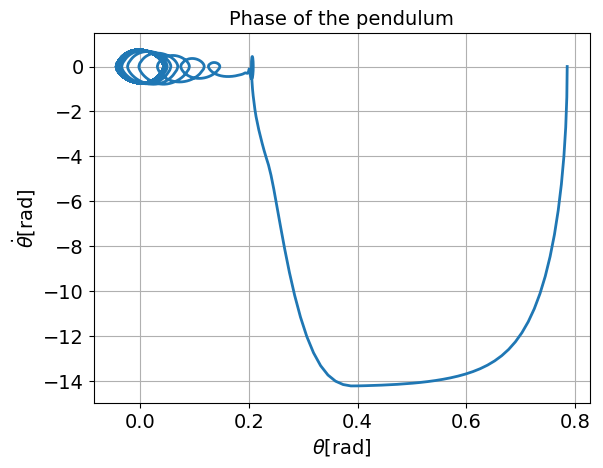
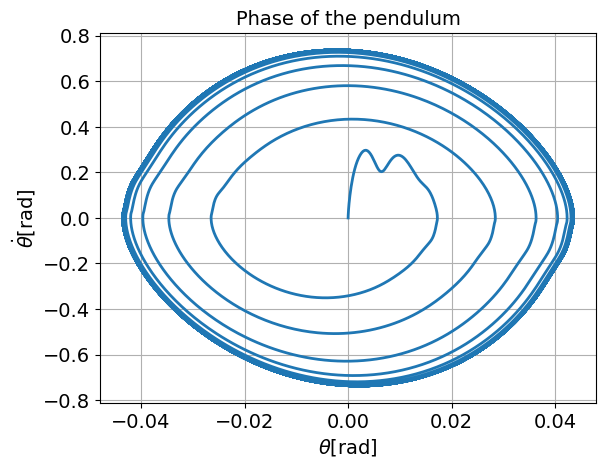
Finished and ready to submit

diff --git a/LAB06/Python/exercise3.py b/LAB06/Python/exercise3.py
@@ -114,7 +114,7 @@ def system_initialisation(l_pendulum=0.5, m_pendulum=1., f_max=1500, l_attach=0.
     sys.add_neural_system(neural_network)  # Add neural network model to the system
 
     # Default initial conditions
-    x0_p = np.array([np.pi / 4, 0.])                # Pendulum initial condition
+    x0_p = np.array([0, 0.])                # Pendulum initial condition
     x0_m = np.array([0., m1.L_OPT, 0., m2.L_OPT])   # Muscle Model initial condition
     x0_n = np.array([-0.5, 1, 0.5, 1])              # Neural Network initial condition
     x0 = np.concatenate((x0_p, x0_m, x0_n))         # System initial conditions
@@ -148,7 +148,7 @@ def exercise3b(time_param):
         sim = SystemSimulation(sys)
         sim.initalize_system(x0, time_param.times)
         ext_drive = np.ones((time_param.nb_pts, 4))*drive
-        ext_drive[0:int(time_param.nb_pts/2), :] *= 0
+        ext_drive[0:int(time_param.nb_pts/4), :] *= 0
         sim.add_external_inputs_to_network(ext_drive)
         sim.simulate()
         res = sim.results()
@@ -158,17 +158,17 @@ def exercise3b(time_param):
 
         # Add marker where external drive was applied
         plt.figure(activation_handle)
-        plt.axvline(time_param.times[int(time_param.nb_pts/2)], color='k')
-        plt.text(time_param.times[int(time_param.nb_pts/2)]+0.1, 0.2, "External input", rotation=-90, color="k")
+        plt.axvline(time_param.times[int(time_param.nb_pts/4)], color='k')
+        plt.text(time_param.times[int(time_param.nb_pts/4)]+0.1, 0.25, "External input", rotation=-90, color="k")
         plt.figure(state_handle)
-        plt.axvline(time_param.times[int(time_param.nb_pts / 2)], color='k')
-        plt.text(time_param.times[int(time_param.nb_pts / 2)] + 0.1, 0.6, "External input", rotation=-90, color="k")
+        plt.axvline(time_param.times[int(time_param.nb_pts / 4)], color='k')
+        plt.text(time_param.times[int(time_param.nb_pts / 4)] + 0.1, -0.02, "External input", rotation=-90, color="k")
 
 
 def exercise3():
 
     time_param = TimeParameters(time_start=0, time_stop=10., time_step=0.001)
-    # exercise3a(time_param)
+    exercise3a(time_param)
     exercise3b(time_param)
 
     if DEFAULT["save_figures"]:

diff --git a/LAB06/Python/exercise2.py b/LAB06/Python/exercise2.py
@@ -226,7 +226,7 @@ def exercise2b(time_param):
     pylog.info("Exercise 2b")
 
     # Parameters
-    activation_frequency = 1
+    activation_frequency = 0.5
     amplitude = 1
 
     # Experiments
@@ -267,8 +267,8 @@ def exercise2b(time_param):
     # Plot sinus activation
     plt.figure("2_b_activation_rect")
     plt.title("Rectangle activation")
-    plt.plot(time_param.times, act1_rect, label="Activation for muscle 1")
-    plt.plot(time_param.times, act2_rect, label="Activation for muscle 2")
+    plt.plot(time_param.times, act1_rect, label="Flexor")
+    plt.plot(time_param.times, act2_rect, label="Extensor")
     plt.xlabel("Time [s]")
     plt.ylabel("Amplitude")
     plt.legend()
@@ -279,14 +279,14 @@ def exercise2c(time_param):
 
     # Frequency variation parameters
     ref_amplitude = 1.
-    activation_frq_min = 0.5
-    activation_frq_max = 2.
+    activation_frq_min = 0.2
+    activation_frq_max = 4.
     nb_frq = 4
     frequencies = np.linspace(activation_frq_min, activation_frq_max, nb_frq)
 
     # Amplitude variation parameters
-    ref_frq = 1.
-    activation_amplitude_min = 0
+    ref_frq = 0.5
+    activation_amplitude_min = 0.1
     activation_amplitude_max = 1.
     nb_amplitudes = 4
     amplitudes = np.linspace(activation_amplitude_min, activation_amplitude_max, nb_amplitudes)
@@ -384,8 +384,8 @@ def exercise2c(time_param):
 
 def exercise2():
     time_param = TimeParameters(time_start=0, time_stop=5., time_step=0.001)
-    # exercise2a()
-    # exercise2b(time_param)
+    exercise2a()
+    exercise2b(time_param)
     exercise2c(time_param)
     if not DEFAULT["save_figures"]:
         plt.show()

diff --git a/LAB05/Python/exercise1.py b/LAB05/Python/exercise1.py
@@ -481,11 +481,11 @@ def exercise1():
     pylog.info("Start exercise 1")
     time_param = TimeParameters(time_start=0.0, time_stop=0.2, time_step=0.001, time_stabilize=0.2)
 
-    # exercise1a(time_param)
-    # exercise1b(time_param)
-    # exercise1c(time_param)
-    time_param.t_stop = 0.3
-    # exercise1d(time_param)
+    exercise1a(time_param)
+    exercise1b(time_param)
+    exercise1c(time_param)
+    time_param.t_stop = 0.3  # change time parameters for the second part
+    exercise1d(time_param)
     exercise1e(time_param)
 
     if DEFAULT["save_figures"]:
